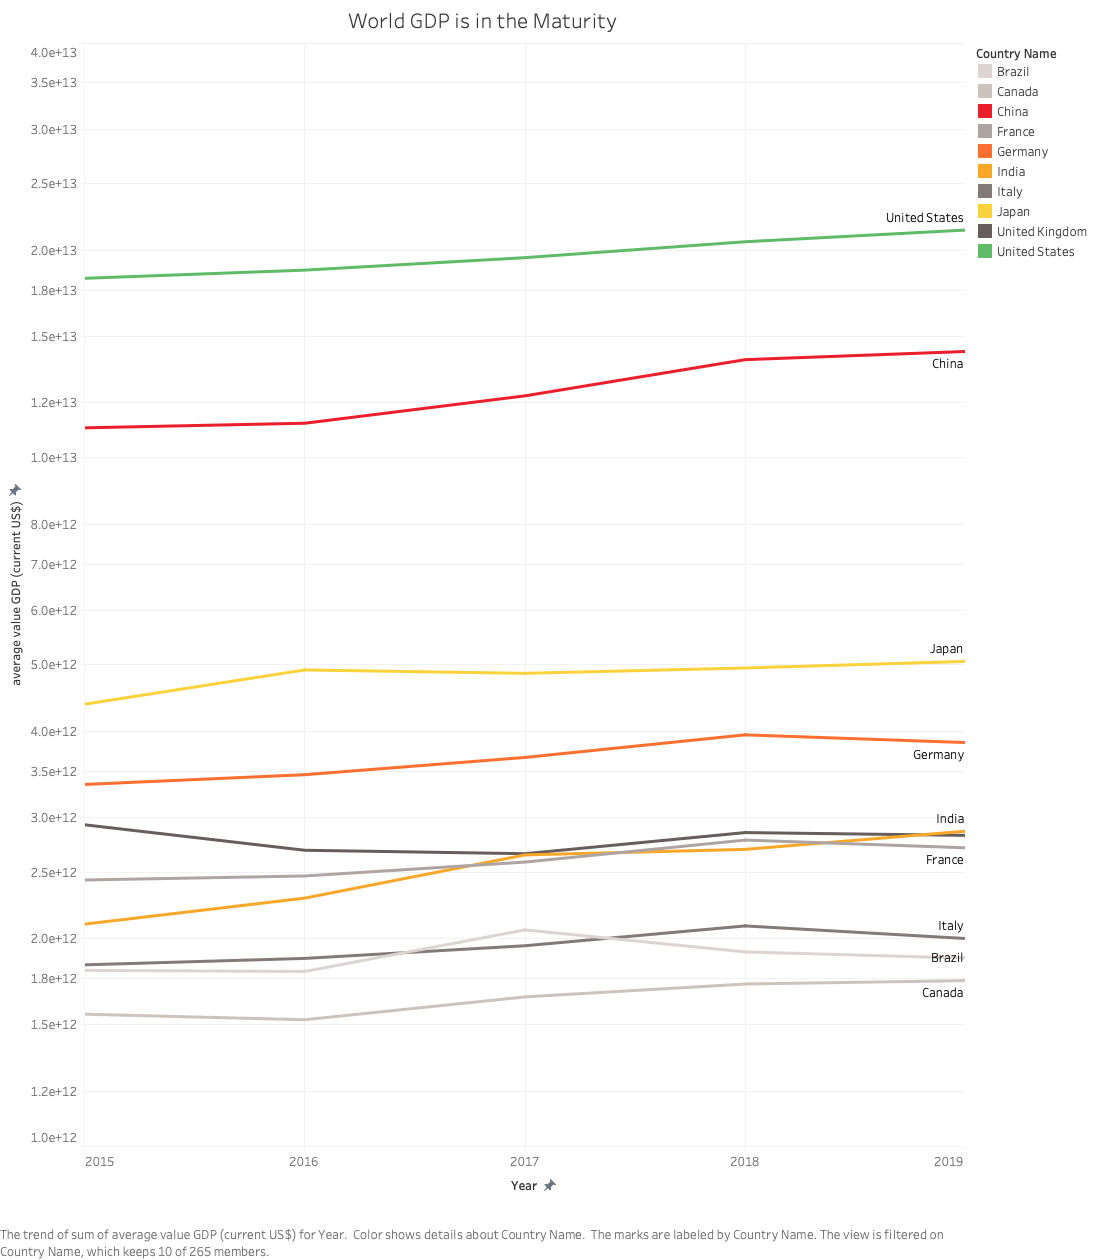
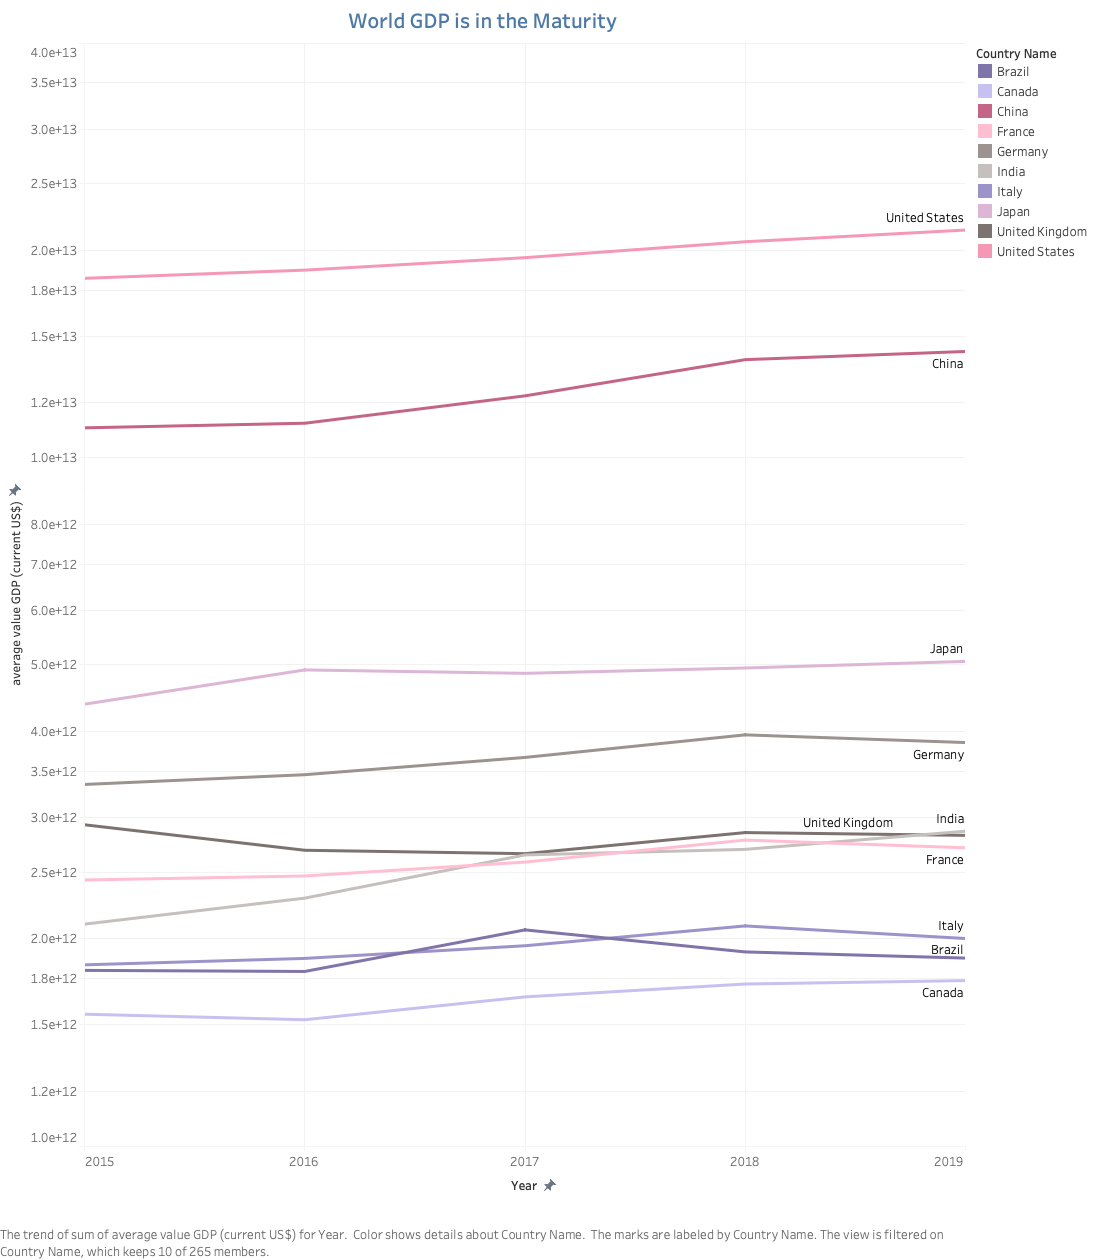
description

diff --git a/projects/A4/A4_report.html b/projects/A4/A4_report.html
@@ -35,7 +35,7 @@
 			</p>
 
 			<ul>
-				<li>Use dark theme of color to emphasize the calmness of the mature economy phase.</li>
+				<li>Use dark/cold theme of color to emphasize the calmness of the mature economy phase.</li>
 				<li>Horizontal axis is narrowed down to 2015 to 2019, clipping a limited range of year</li>
 				<li>Log scale on the vertical axis is adopted to less emphasize the magnitude of difference over years</li>
 				<li>Up to top 10 countries are shown in the visualization to emphasize the trend is stable</li>
